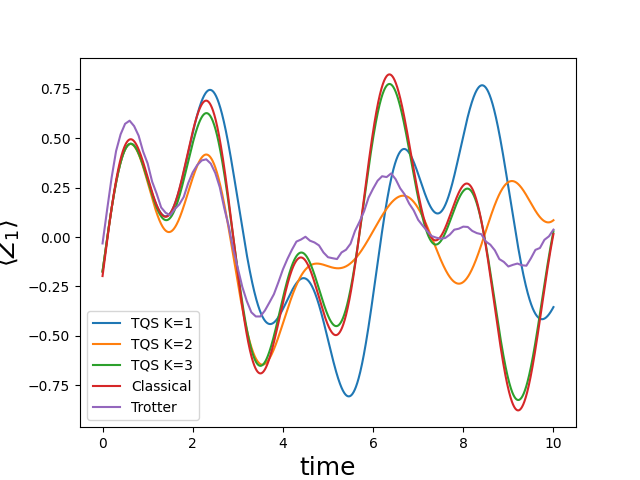
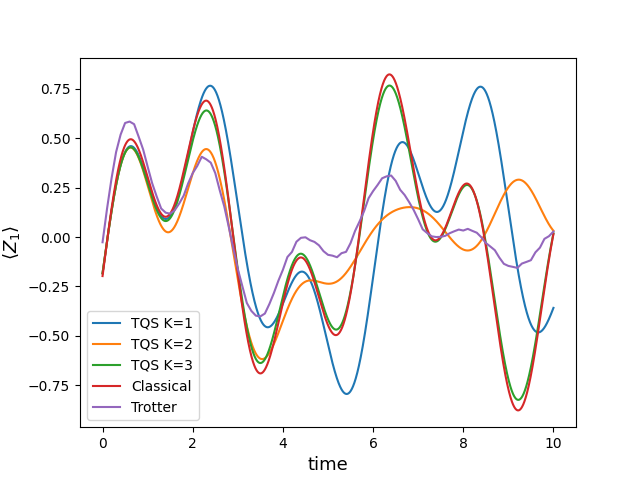
Jon

diff --git a/Forjontoteststuff.py b/Forjontoteststuff.py
@@ -219,7 +219,7 @@ for i in range(trotter_num_steps):
     trottervalues.append(trotp.do_trotter_decomposition_observable(initial_state,trotdecomp_function,observable,sim,quantum_computer_choice_results,trotter_timestep,i,num_shots))
 
 plotp.plotter_fortrotter(trottervalues,trottertimes)
-plotp.set_axis_labels("time","$\\langle Z_1 \\rangle$",18)
+plotp.set_axis_labels("time","$\\langle Z_1 \\rangle$",13)
 plotp.print_plot("Jonstufftesting/plottqstrot.png")
 #scipy.io.savemat("Jonstufftesting/trotterdata.mat",{'Trotter_observable':np.array(trottervalues),'Trotter_times':np.array(trottertimes)})
 '''
